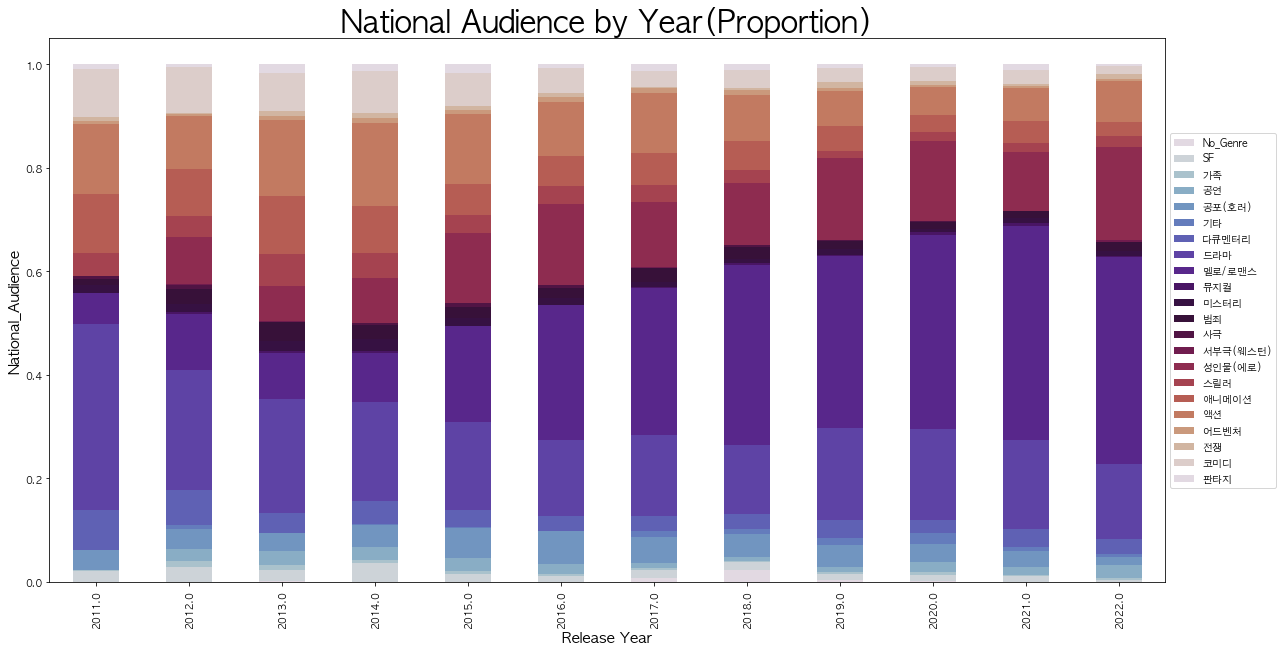
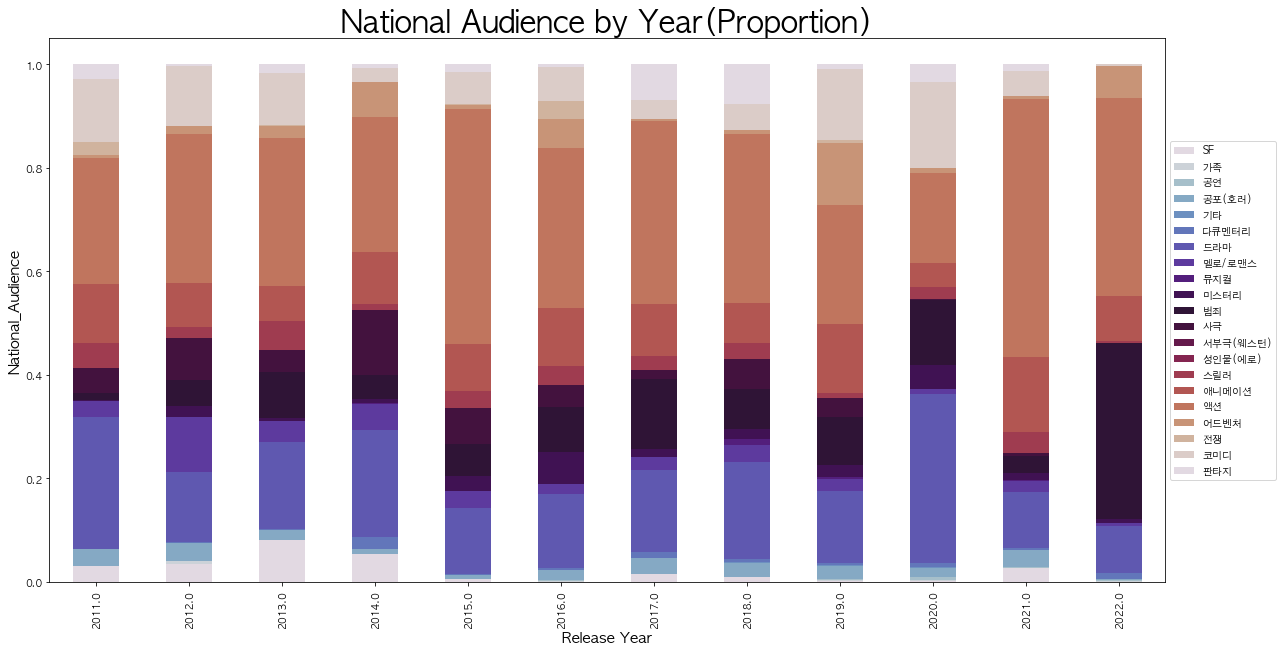
graph.md

diff --git a/graph.md b/graph.md
@@ -6,34 +6,37 @@
 * 'Seoul_Sales' (서울 매출액)
 * 'Seoul_Audience' (서울 관객)
 ![](graph/daniel_1_1.png )
-
+>> 국내 개봉 영화중 한국과 미국 영화가 스크린수, 매출액, 관객수가 1,2위로 가장 많습니다.
 
 ## 2. 주요 국가 영화별 장르 분포 
 ![](graph/daniel_2_1.png )
+>> 국내 개봉 영화중 일본과 한국은 멜로 로맨스영화가 가장 많은 분포를 보이고 프랑스, 영국은 드라마가 강세입니다. 반면 미국, 중국, 캐나다, 홍콩은 액션이 
 
 ## 3. 주요 국가 영화별 연령 제한 분포 비교
 ![](graph/daniel_3_1.png )
-### 
+
+>> 국가별로 영화별 4가지 연령 제한 분포를 비교해 시각화 했습니다. 
 
 ## 4. 주요 국가 영화별 인기 top10 영화
 ![](graph/daniel_4_1.png )
-한국, 일본, 미국, 프랑스, 영국, 중국, 독일, 캐나다, 홍콩 9개 국가별 국내 개봉 영화중 관객수 순 10 개 인기 영화를 시각화했습니다. 
+>>한국, 일본, 미국, 프랑스, 영국, 중국, 독일, 캐나다, 홍콩 9개 국가별 국내 개봉 영화중 관객수 순 10 개 인기 영화를 시각화했습니다. 
 
 
 ## 5. 국내 개봉 영화 국가별 워드 클라우드
 
 ![](graph/daniel_wordcloud.png )
-한국, 일본, 미국, 프랑스, 영국, 중국, 독일, 캐나다, 홍콩 9 개 국가별로 국내 개봉영화의 워드 클라우드를 시각화했습니다. 일본은 역시 애니메이션이 두드러집니다.
+>>한국, 일본, 미국, 프랑스, 영국, 중국, 독일, 캐나다, 홍콩 9 개 국가별로 국내 개봉영화의 워드 클라우드를 시각화했습니다. 일본은 역시 애니메이션이 두드러집니다.
 
 
 ## 6. 연도에 따른 주요 국가별 영화 개봉수 추이
 
 ![](graph/daniel_5_1.png )
-
+>> 20년에 들어 미국을 제외하고 전반적으로 개봉 영화수가 감소하는 추세입니다. 
 
 ## 7. 국가별 국내 개봉 영화 분포 비교 
 ![](graph/daniel_6_1.png )
 
+>>국내 개봉영화로는 한국, 미국, 영국, 일본 순으로 많습니다.
 
 
 ## 8. 연도별 변화 비교분석
@@ -44,7 +47,7 @@
 * [연도별 전국 관객 추이]
 ![](graph/jiwon_1_2.png)
 
-
+>>2011년 이후로 현재 2022년까지의 연도별로 전국매출액과 관객을 비교 분석해 보았습니다. 
 
 ## 9. 연도별 전국 관객 장르 수요 분석
 ###  :'National_Audience','year', 'Genre'
@@ -54,3 +57,5 @@
 
 *  [연도별 국내개봉 영화 장르 관객 분포(비율)]
 ![](graph/jiwon_3_2.png)
+
+>>코로나가 시작한 2020년을 기점으로 관객수가 확연히 줄어든 것이 보입니다. 이와 마찬가지로 코미디,판타지 장르의 영화의 수가 줄어든 것을 확인할수 있습나다. 
